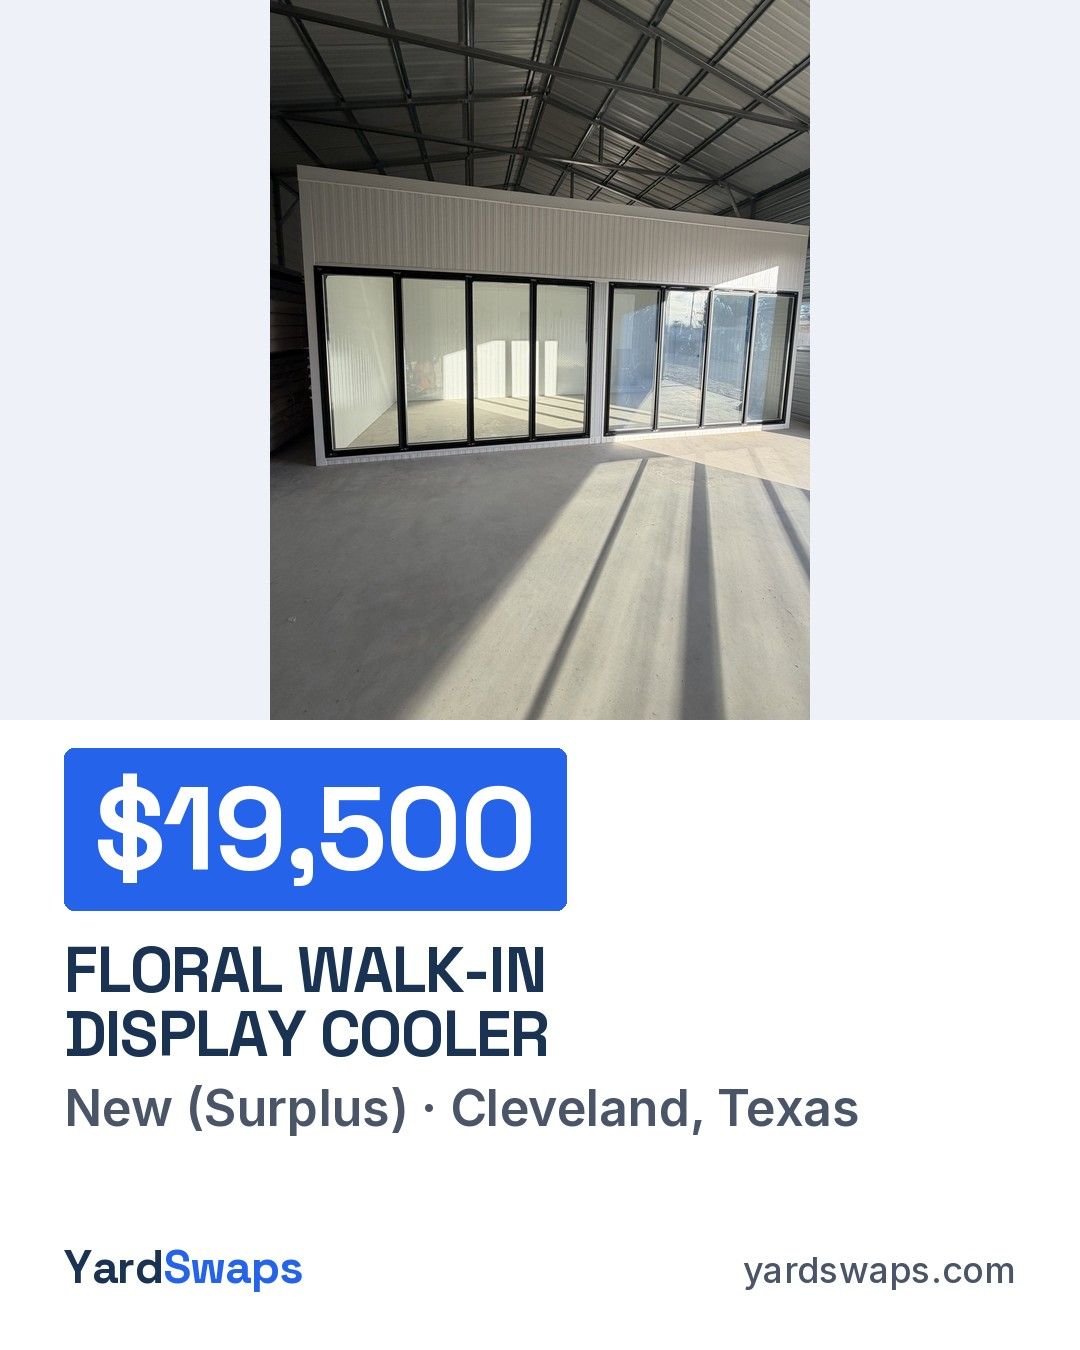
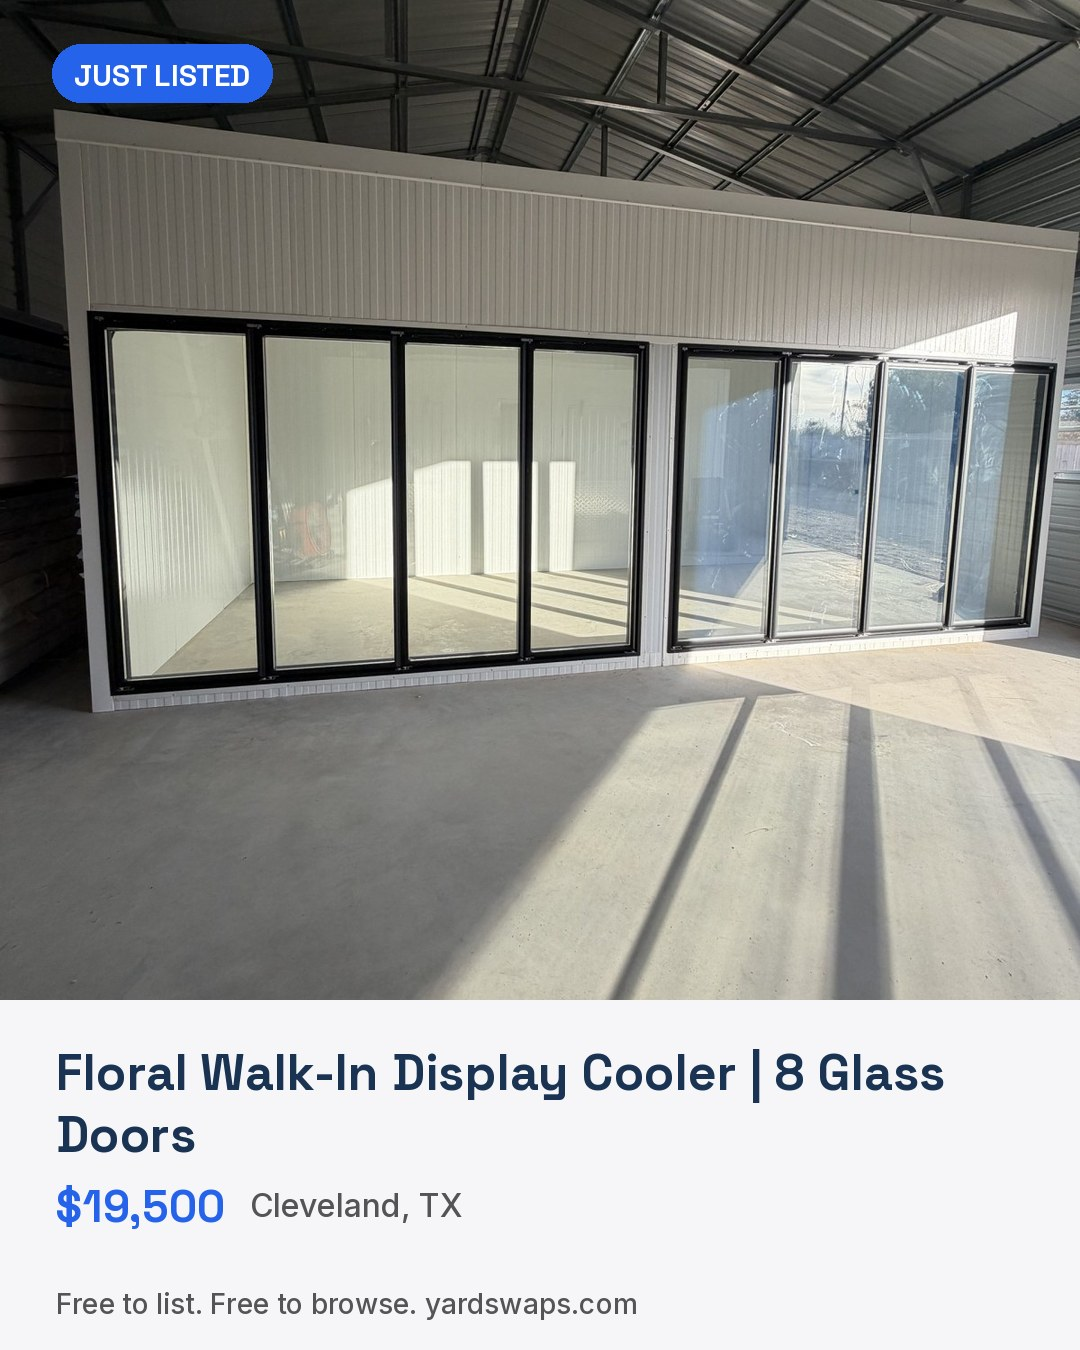
Still images and linked Stories in the card look (#154)
Seller stills and the Just listed card back in the earlier card look; Story-size seller cards for the linked Stories.

The only red check is the listings test run, which fails before the test starts: the runner's apt index points at pipewire packages security.ubuntu.com no longer serves (404). The same test (MODE=prep DRY_RUN=1 python3 listings/just_listed.py) passed locally on the PR merged with main. Merged on the owner's ask to finish it and get it posting.

Claude-Session: https://claude.ai/code/session_01LSYGzeUgq9fnmqx8BJzKeC

diff --git a/brand/posts/make_seller_cards.py b/brand/posts/make_seller_cards.py
@@ -1,0 +1,137 @@
+#!/usr/bin/env python3
+"""Seller still images in the Just listed card look (Alan, 2026-11-26, of the earlier Just listed card:
+"These images are super nice"; then, next to the seven k2 seller stills: "This tractor looks different?").
+
+    python3 brand/posts/seller_photos.py <words from listing Reel slugs>   first: fetch the real photos
+    python3 brand/posts/make_seller_cards.py [slug ...]
+    python3 brand/posts/make_seller_cards.py --story [slug ...]     Story size, into stories/linked/
+
+The card is the one listings/just_listed.py drew until 2026-11-26: the real photo across the top with only
+the blue label on it, then on the light panel a two-line headline in slate, one line in blue with the facts
+beside it in grey, and the footer line. Here the label, headline and blue line carry the seller message
+(free to list, no selling fee) instead of a price. One photo per card, the whole item in frame, no faces,
+plates or phone numbers; the footer names the item shown.
+
+Out: brand/posts/seller-cards/seller-card-<slug>.jpg (1080x1350); with --story,
+stories/linked/seller-card-<slug>.jpg (1080x1920).
+"""
+import sys, os, glob
+from PIL import Image, ImageDraw, ImageFont
+HERE = os.path.dirname(os.path.abspath(__file__))
+ROOT = os.path.dirname(os.path.dirname(HERE))
+FONTS = os.path.join(ROOT, "listings", "fonts")
+SRC = os.environ.get("SELLER_SRC", os.path.join(HERE, "seller-src"))
+OUT = os.path.join(HERE, "seller-cards")
+BG, SLATE, BLUE, GRAY = (246, 246, 248), (26, 51, 83), (37, 99, 235), (84, 84, 86)
+W, H, PH, PAD = 1080, 1350, 1000, 56
+LABEL = "LIST IT FREE ON YARDSWAPS"
+BLUE_LINE, FACTS = "Free to list", "No selling fee · Local pickup"
+
+
+def font(name, size, weight):
+    f = ImageFont.truetype(os.path.join(FONTS, name), size)
+    try:
+        f.set_variation_by_name(weight)
+    except Exception:
+        pass
+    return f
+
+
+def photo(frag, i=0):
+    f = glob.glob(os.path.join(SRC, f"*{frag}-{i}.jpg"))
+    assert len(f) == 1, (frag, i, f)
+    return Image.open(f[0]).convert("RGB")
+
+
+def card(ph, line1, line2, shown, anchor=(0.5, 0.5)):
+    """anchor: where the cover crop sits on the photo, (0..1 across, 0..1 down)."""
+    img = Image.new("RGB", (W, H), BG)
+    s = max(W / ph.width, PH / ph.height)
+    ph = ph.resize((int(ph.width * s + 0.5), int(ph.height * s + 0.5)), Image.LANCZOS)
+    left, top = int((ph.width - W) * anchor[0]), int((ph.height - PH) * anchor[1])
+    img.paste(ph.crop((left, top, left + W, top + PH)), (0, 0))
+    d = ImageDraw.Draw(img)
+    lf = font("SpaceGrotesk.ttf", 30, b"Bold")
+    tw = d.textlength(LABEL, font=lf)
+    d.rounded_rectangle((PAD - 4, 44, PAD + tw + 40, 44 + 58), radius=29, fill=BLUE)
+    d.text((PAD + 18, 44 + 12), LABEL, font=lf, fill=(255, 255, 255))
+    tf = font("SpaceGrotesk.ttf", 50, b"Bold")
+    y = PH + 40
+    for line in (line1, line2):
+        assert d.textlength(line, font=tf) <= W - 2 * PAD, line
+        d.text((PAD, y), line, font=tf, fill=SLATE)
+        y += 62
+    y += 14
+    pf = font("SpaceGrotesk.ttf", 44, b"Bold")
+    d.text((PAD, y), BLUE_LINE, font=pf, fill=BLUE)
+    rf = font("Inter.ttf", 32, b"Medium")
+    d.text((PAD + d.textlength(BLUE_LINE, font=pf) + 24, y + 8), FACTS, font=rf, fill=GRAY)
+    ff = font("Inter.ttf", 28, b"Medium")
+    foot = f"Shown: {shown}. yardswaps.com"
+    assert d.textlength(foot, font=ff) <= W - 2 * PAD, foot
+    d.text((PAD, H - 64), foot, font=ff, fill=GRAY)
+    return img
+
+
+def story(ph, line1, line2, shown, anchor=(0.5, 0.5)):
+    """The same card at Story size (1080x1920) for the linked Stories (stories/linked/). The photo runs from
+    the top edge; the label starts under the top 200 px that the app covers with the account name; the link
+    sticker (about 740 x 140 px at this size) goes on the empty band between the blue line and the footer,
+    centre about y 1425; nothing to read
+    in the bottom 340 px."""
+    SW, SH, SPH = 1080, 1920, 1080
+    img = Image.new("RGB", (SW, SH), BG)
+    s = max(SW / ph.width, SPH / ph.height)
+    ph = ph.resize((int(ph.width * s + 0.5), int(ph.height * s + 0.5)), Image.LANCZOS)
+    left, top = int((ph.width - SW) * anchor[0]), int((ph.height - SPH) * anchor[1])
+    img.paste(ph.crop((left, top, left + SW, top + SPH)), (0, 0))
+    d = ImageDraw.Draw(img)
+    lf = font("SpaceGrotesk.ttf", 32, b"Bold")
+    tw = d.textlength(LABEL, font=lf)
+    d.rounded_rectangle((PAD - 4, 214, PAD + tw + 42, 214 + 62), radius=31, fill=BLUE)
+    d.text((PAD + 19, 214 + 13), LABEL, font=lf, fill=(255, 255, 255))
+    tf = font("SpaceGrotesk.ttf", 54, b"Bold")
+    y = SPH + 40
+    for line in (line1, line2):
+        assert d.textlength(line, font=tf) <= SW - 2 * PAD, line
+        d.text((PAD, y), line, font=tf, fill=SLATE)
+        y += 66
+    y += 14
+    pf = font("SpaceGrotesk.ttf", 46, b"Bold")
+    d.text((PAD, y), BLUE_LINE, font=pf, fill=BLUE)
+    rf = font("Inter.ttf", 33, b"Medium")
+    d.text((PAD + d.textlength(BLUE_LINE, font=pf) + 24, y + 9), FACTS, font=rf, fill=GRAY)
+    ff = font("Inter.ttf", 28, b"Medium")
+    foot = f"Shown: {shown}. yardswaps.com"
+    assert d.textlength(foot, font=ff) <= SW - 2 * PAD, foot
+    d.text((PAD, 1530), foot, font=ff, fill=GRAY)
+    return img
+
+
+# slug, (listing fragment, photo index), headline line 1, line 2, item shown, crop anchor
+L2 = "Snap a photo. AI writes the listing."
+CARDS = [
+    ("coffee-gear", ("q3nph", 0), "Coffee gear sitting idle?", L2, "La Spaziale S11 espresso machine", (0.5, 0.5)),
+    ("yard-gear", ("behok", 0), "Upgraded your mower?", L2, "Big Dog walk-behind mower", (0.5, 0.7)),
+    ("shop-tools", ("k5oda", 0), "Tools you don\u2019t use?", L2, "Mitutoyo micrometer set", (0.5, 0.5)),
+    ("hvac-units", ("uemvl", 0), "HVAC left from a job?", L2, "Goodman condenser", (0.5, 0.22)),
+    ("spare-engine", ("dsydq", 0), "Spare engine in the shop?", L2, "Komatsu HD785-7 engine", (0.5, 0.5)),
+    ("walk-in-cooler", ("q3khm", 0), "Cooler sitting empty?", L2, "Floral walk-in display cooler", (0.5, 0.5)),
+    ("kitchen-ovens", ("s8tqf", 0), "Replaced your oven?", L2, "TurboChef Eco oven", (0.5, 0.3)),
+]
+
+# The Story crop is taller, so a few photos sit differently in it.
+STORY_ANCHOR = {}
+
+if __name__ == "__main__":
+    names = [a for a in sys.argv[1:] if a != "--story"]
+    as_story = "--story" in sys.argv[1:]
+    out_dir = os.path.join(ROOT, "stories", "linked") if as_story else OUT
+    os.makedirs(out_dir, exist_ok=True)
+    for slug, (frag, i), l1, l2, shown, anchor in CARDS:
+        if names and slug not in names:
+            continue
+        out = os.path.join(out_dir, f"seller-card-{slug}.jpg")
+        (story if as_story else card)(photo(frag, i), l1, l2, shown, STORY_ANCHOR.get(slug, anchor) if as_story else anchor).save(
+            out, "JPEG", quality=88, optimize=True)
+        print(out)

diff --git a/listings/just_listed.py b/listings/just_listed.py
@@ -401,16 +401,49 @@ def facts_lines(l):
 
 
 def render_card(photo_bgr, l, out_path):
-    """The feed card in the post kit look (brand/posts/kit.py, k2): the real photo on top with nothing over it,
-    the price in the blue tag, the short title and the facts on white."""
+    """The feed card as it was before 2026-11-26 (Alan that day, of one of these: "These images are super
+    nice"; the k2 version with the price in the tag and the title in capitals ran for a few hours and was put
+    back): the real photo across the top with only the label on it, then on the light panel the seller's
+    title in slate, the price in blue with the facts beside it, and the footer line."""
     import cv2
-    from PIL import Image
-    sys.path.insert(0, os.path.join(ROOT, "brand", "posts"))
-    import kit
-    photo = Image.fromarray(cv2.cvtColor(photo_bgr, cv2.COLOR_BGR2RGB))
-    lines = facts_lines(l) + ["", ""]
-    img = kit.listing_post(photo, spec_title(l), price_text(l.get("price")), lines[0], facts2=lines[1])
-    img.save(out_path, "JPEG", quality=90, optimize=True)
+    from PIL import Image, ImageDraw
+    W, H, PH = 1080, 1350, 1000
+    img = Image.new("RGB", (W, H), BG)
+    rgb = cv2.cvtColor(photo_bgr, cv2.COLOR_BGR2RGB)
+    ph = Image.fromarray(rgb)
+    # Cover-crop the photo into the top 1080x1000.
+    s = max(W / ph.width, PH / ph.height)
+    ph = ph.resize((int(ph.width * s + 0.5), int(ph.height * s + 0.5)), Image.LANCZOS)
+    left, top = (ph.width - W) // 2, (ph.height - PH) // 2
+    img.paste(ph.crop((left, top, left + W, top + PH)), (0, 0))
+    d = ImageDraw.Draw(img)
+    pad = 56
+    label = "JUST LISTED" if is_new(l) else "FOR SALE ON YARDSWAPS"
+    lf = font("SpaceGrotesk.ttf", 30, b"Bold")
+    # Label pill on the photo, top-left.
+    tw = d.textlength(label, font=lf)
+    d.rounded_rectangle((pad - 4, 44, pad + tw + 40, 44 + 58), radius=29, fill=BLUE)
+    d.text((pad + 18, 44 + 12), label, font=lf, fill=(255, 255, 255))
+    tf = font("SpaceGrotesk.ttf", 50, b"Bold")
+    lines = wrap(d, nice_title(l["title"]), tf, W - 2 * pad, 2)
+    y = PH + 40
+    for line in lines:
+        d.text((pad, y), line, font=tf, fill=SLATE)
+        y += 62
+    y += 14
+    pf = font("SpaceGrotesk.ttf", 44, b"Bold")
+    pt = price_text(l.get("price"))
+    d.text((pad, y), pt, font=pf, fill=BLUE)
+    rest = " · ".join(facts(l).split(" · ")[1:])
+    if rest:
+        rf = font("Inter.ttf", 32, b"Medium")
+        x = pad + d.textlength(pt, font=pf) + 24
+        rest_lines = wrap(d, rest, rf, W - pad - x, 1)
+        d.text((x, y + 8), rest_lines[0], font=rf, fill=GRAY)
+    ff = font("Inter.ttf", 28, b"Medium")
+    foot = "Free to list. Free to browse. yardswaps.com"
+    d.text((pad, H - 64), foot, font=ff, fill=GRAY)
+    img.save(out_path, "JPEG", quality=88, optimize=True)
 
 
 # ---------- wanted cards ----------

diff --git a/listings/README.md b/listings/README.md
@@ -7,7 +7,7 @@ One live YardSwaps listing a day goes to Instagram (feed photo) and the Facebook
 1. **prep** (`.github/workflows/listings.yml`, 9:10 am Central). `just_listed.py` reads the public listings API, sorted newest first. Listings never featured go first, then the ones featured longest ago, with at most one card waiting per seller. It checks up to 4 photos per listing:
    - It skips any photo where OpenCV finds a face.
    - It blurs every word that tesseract reads with a digit in it, such as phone numbers, plates and street numbers.
-   - It renders a 1080x1350 card into `cards/<listing id>.jpg` in the post kit look (`brand/posts/README.md`, Nov 26): the real photo on top with nothing over it, then on white the price in the one blue tag, the short title, the facts and the wordmark (look k2, white and blue).
+   - It renders a 1080x1350 card into `cards/<listing id>.jpg` in the card look it had before Nov 26: the real photo across the top with only the blue label on it (JUST LISTED or FOR SALE ON YARDSWAPS), then on the light panel the seller's title in slate, the price in blue with the facts beside it, and the line "Free to list. Free to browse. yardswaps.com". The k2 version (price in the tag, title in capitals) ran for a few hours on Nov 26 and was put back the same day: Alan, of one of the earlier cards, "These images are super nice".
    - It queues the card in `queue.json` as `pending`.
    - It keeps up to 3 cards waiting.
 2. **review** (a Claude scheduled task, about 11:30 am Central). The task looks at every `pending` card and sets `approved`, or `rejected` with a `reason`. See "Review rules" below.

diff --git a/brand/posts/README.md b/brand/posts/README.md
@@ -43,7 +43,8 @@ The review page with every frame, before and after: https://claude.ai/artifact/6
 | Post | Made by | Function |
 |---|---|---|
 | Listing Reel (every shot before the end card) | `listings/listing_reels.py` | `reel_shots` |
-| Daily "Just listed" card | `listings/just_listed.py` `render_card` | `listing_post` |
+| Daily "Just listed" card | `listings/just_listed.py` `render_card` | not on the kit: its own earlier card look, kept on purpose (Alan 2026-11-26: "These images are super nice") |
+| Seller still of the day (feed 4:5) | `brand/posts/make_seller_cards.py` | not on the kit: the Just listed card look with the seller message |
 | "Buyers are looking for" card | `listings/just_listed.py` `render_wanted_card` | `text_post` |
 | Tip posts (feed 4:5 and 9:16) | `brand/posts/make_tips.py` from `tips.json` | `tip_post` |
 | Daily Story | `stories/render_story.js` | `story`, drawn again in HTML because the Story job checks out only `stories/` |

diff --git a/reels/README.md b/reels/README.md
@@ -107,6 +107,11 @@ schedule when a seller Story is listed for the date, and otherwise takes the sti
 inside `IMAGE_GAP_DAYS`, 7). It is logged in `reels/posted.json` as platform `instagram_image` /
 `facebook_image`, because the posting job commits only that file; the Reel rules ignore those rows except that
 the 90-minute HeyCatch spacing reads them as ours. `reels.yml` with `image_slug` still posts any one image by hand.
+Since the evening of 2026-11-26 the seven feed images are the cards from `brand/posts/make_seller_cards.py`: the
+Just listed card's layout (photo on top, blue label, slate headline, one blue line, footer) with the seller
+message, after Alan put the earlier Just listed card next to the k2 stills ("These images are super nice", "This
+tractor looks different?"). The k2 versions stay in `brand/posts/seller-feed/`; the linked Stories still use the
+k2 pictures in `stories/linked/`.
 
 ## Walkthrough of the day (Alan, 2026-11-26)
 
